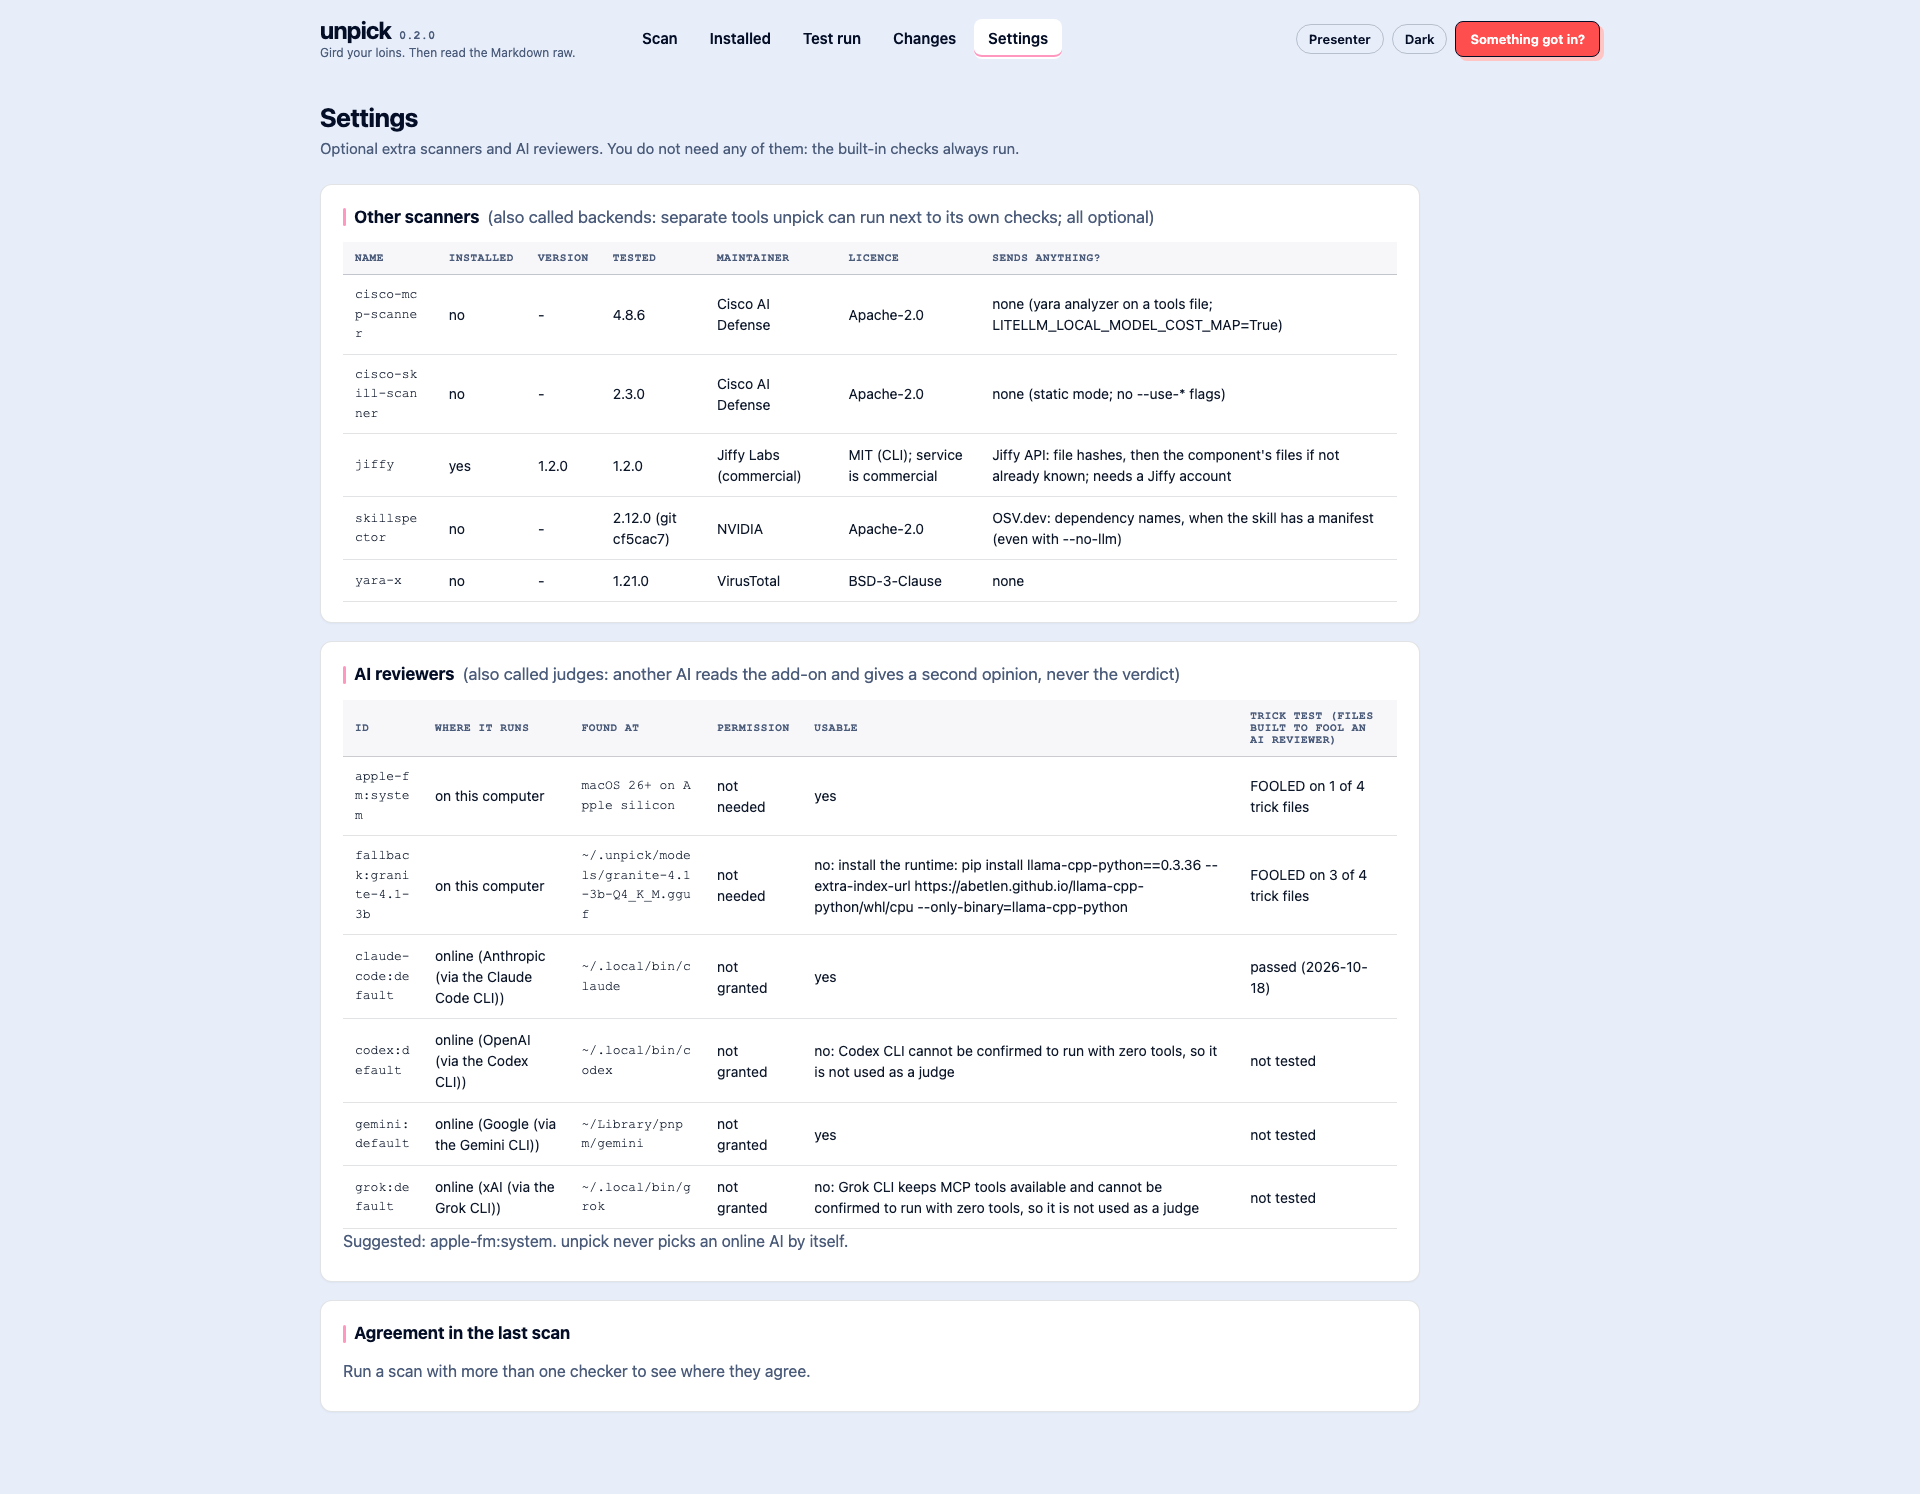
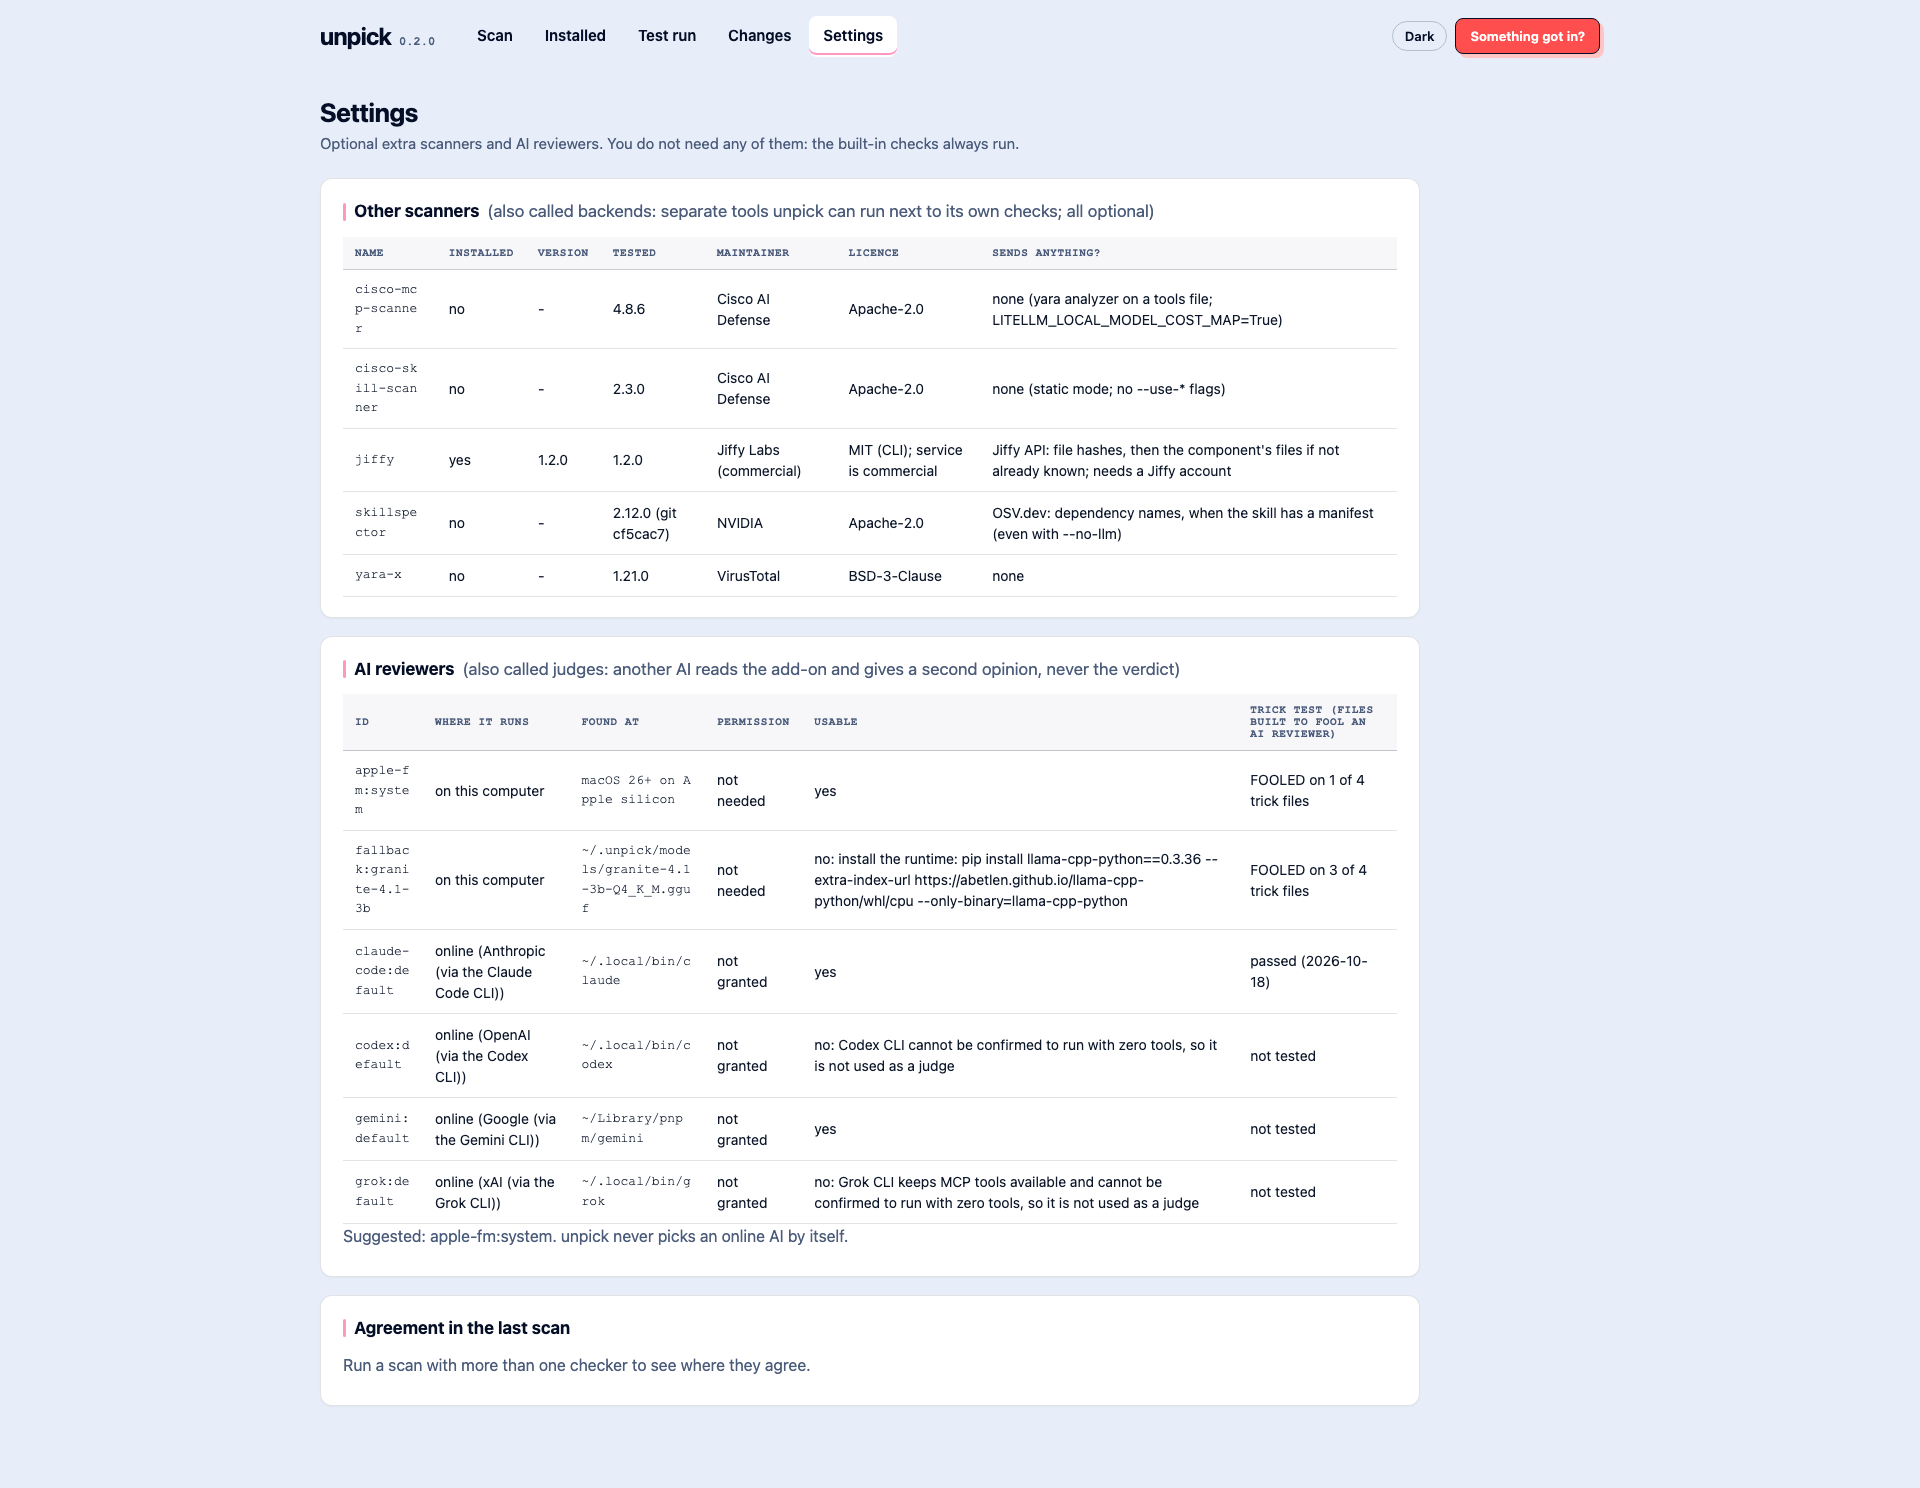
feat(ui): remove the tagline and presenter mode
The header shows only the name, version, navigation, theme and
"Something got in?". Removes the tagline from the page, the server and the
README, and presenter mode from the HTML, CSS and JS. DECISIONS 51
supersedes 40. tests/slides.py now sets scanners under Advanced on the
start page.

diff --git a/unpick/ui/static/app.css b/unpick/ui/static/app.css
@@ -27,7 +27,6 @@ code, .mono, pre { font-family: var(--font-mono); }
 .brand { display: flex; flex-wrap: wrap; column-gap: 8px; align-items: baseline; max-width: 280px; text-decoration: none; color: var(--fg-strong); }
 .wordmark { font: 700 24px var(--font-body); letter-spacing: -0.03em; }
 .version { font: 600 12px var(--font-mono); color: var(--fg-muted); }
-.tagline { flex-basis: 100%; font-size: 12px; color: var(--fg-muted); }
 nav { display: flex; gap: 4px; flex: 1; flex-wrap: wrap; }
 nav a { color: var(--fg-strong); text-decoration: none; padding: 8px 14px; border-radius: var(--radius-md); font-weight: 600; font-size: 15px; border-bottom: 2px solid transparent; }
 nav a:hover { background: var(--bg-elevated); }
@@ -280,23 +279,12 @@ dialog { border: 1px solid var(--navy-900); border-radius: var(--radius-lg); pad
 dialog p { white-space: pre-line; }
 dialog::backdrop { background: rgba(4, 14, 39, 0.6); }
 
-/* ---- presenter: real sizes for a projector ---- */
-body.present main { font-size: 20px; }
-body.present h1 { font-size: 40px; } body.present .hero-title { font-size: 72px; } body.present .result-title { font-size: 44px; }
-body.present .path-help, body.present .entry-foot, body.present .verdict-action, body.present .source { font-size: 17px; }
-body.present .verdict-head { font-size: 28px; } body.present .verdict-word { font-size: 40px; }
-body.present .finding .msg { font-size: 22px; } body.present .finding .why, body.present .subcopy, body.present .summary { font-size: 20px; }
-body.present .split-body, body.present .finding pre, body.present .runstrip, body.present .timeline { font-size: 18px; }
-body.present .hidden-text { font-size: 20px; } body.present .j-btn { font-size: 18px; }
-body.present label, body.present .side-note, body.present .meta, body.present .link-btn, body.present .meta-line, body.present .try { font-size: 17px; }
-
 @media (max-width: 1200px) {
   .scan-bar { grid-template-columns: 1fr; }
   .result-grid { grid-template-columns: 1fr; }
   .result-aside { position: static; }
   .two-col { grid-template-columns: 1fr; }
   .topbar, main { padding-left: 20px; padding-right: 20px; }
-  .tagline { display: none; }
 }
 @media (max-width: 760px) {
   .finding > summary { grid-template-columns: 1fr; } .finding .body { padding-left: 6px; }

diff --git a/unpick/ui/static/app.js b/unpick/ui/static/app.js
@@ -98,7 +98,7 @@ function confirmDialog({ title, text, yes, danger = true }) {
   });
 }
 
-// ---- navigation, theme, presenter mode -------------------------------------------------------------
+// ---- navigation and theme -------------------------------------------------------------------------
 const screens = ["start", "inventory", "check", "scan", "rehearse", "verify", "recover", "backends"];
 function show() {
   const wanted = location.hash.slice(1);
@@ -123,14 +123,6 @@ function setTheme(t) {
 }
 $("theme").addEventListener("click", () => setTheme(document.documentElement.dataset.theme === "dark" ? "light" : "dark"));
 setTheme(localStorage.getItem("unpick-theme") || "light");
-
-function setPresent(on) {
-  document.body.classList.toggle("present", on);
-  $("present").setAttribute("aria-pressed", on ? "true" : "false");
-  localStorage.setItem("unpick-present", on ? "1" : "");
-}
-$("present").addEventListener("click", () => setPresent(!document.body.classList.contains("present")));
-setPresent(localStorage.getItem("unpick-present") === "1" || new URLSearchParams(location.search).has("present"));
 
 // Downloads go through fetch so the token header is sent; the browser then saves the file.
 document.addEventListener("click", async (e) => {

diff --git a/unpick/ui/static/index.html b/unpick/ui/static/index.html
@@ -11,8 +11,7 @@
 <body>
   <a class="skip" href="#main">Skip to content</a>
   <header class="topbar">
-    <a class="brand" href="#start" aria-label="unpick home"><span class="wordmark">unpick</span><span class="version">{{VERSION}}</span>
-      <span class="tagline">{{TAGLINE}}</span></a>
+    <a class="brand" href="#start" aria-label="unpick home"><span class="wordmark">unpick</span><span class="version">{{VERSION}}</span></a>
     <nav aria-label="Main">
       <a href="#start" data-screen="start scan check">Scan</a>
       <a href="#inventory" data-screen="inventory">Installed</a>
@@ -21,7 +20,6 @@
       <a href="#backends" data-screen="backends">Settings</a>
     </nav>
     <div class="topbar-right">
-      <button class="toggle" id="present" type="button" aria-pressed="false">Presenter</button>
       <button class="toggle" id="theme" type="button" aria-label="Switch light or dark theme">Dark</button>
       <a href="#recover" data-screen="recover" class="j-btn danger small">Something got in?</a>
     </div>

diff --git a/tests/slides.py b/tests/slides.py
@@ -63,18 +63,17 @@ def main() -> None:
         page = browser.new_page(viewport={"width": 1920, "height": 1080}, device_scale_factor=2)
 
         def scan(path: str, with_backends: bool):
-            page.goto(url + "#scan")
+            page.goto(url)
             page.reload()
-            page.fill("#scan-path", path)
             if with_backends:
-                page.locator("details.options").evaluate("d => d.open = true")
+                page.click("#start-advanced summary")
                 if not page.is_disabled("#scan-backends"):
                     page.check("#scan-backends")
-            page.click("#scan-form button[type=submit]")
+            page.fill("#start-path", path)
+            page.click("#start-go")
             page.wait_for_selector(".finding", timeout=600_000)
 
         scan("sample-a", True)
-        page.locator("details.options").evaluate("d => d.open = false")
         page.screenshot(path=str(SHOTS / "slide-17.png"))  # verdict plus "Scan details": every source that ran, nothing sent
         page.locator("#L24").scroll_into_view_if_needed()
         page.screenshot(path=str(SHOTS / "slide-18.png"))

diff --git a/unpick/ui/server.py b/unpick/ui/server.py
@@ -21,7 +21,7 @@ from pathlib import Path
 
 from flask import Flask, Response, abort, current_app, jsonify, request, send_from_directory
 
-from unpick import TAGLINE, __version__, backends, consent, decisions, inventory, judges, render, report, scan
+from unpick import __version__, backends, consent, decisions, inventory, judges, render, report, scan
 from unpick.ui import plain
 
 STATIC = Path(__file__).resolve().parent / "static"
@@ -60,7 +60,7 @@ def security_headers(resp: Response):
 
 def index():
     page = (STATIC / "index.html").read_text(encoding="utf-8")
-    page = page.replace("{{TOKEN}}", _ctx()["token"]).replace("{{VERSION}}", __version__).replace("{{TAGLINE}}", TAGLINE)
+    page = page.replace("{{TOKEN}}", _ctx()["token"]).replace("{{VERSION}}", __version__)
     return Response(page, mimetype="text/html")
 
 
@@ -69,7 +69,7 @@ def static_file(name):
 
 
 def api_meta():
-    return jsonify({"version": __version__, "project": str(_ctx()["project"]), "tagline": TAGLINE})
+    return jsonify({"version": __version__, "project": str(_ctx()["project"])})
 
 
 def api_inventory():

diff --git a/DECISIONS.md b/DECISIONS.md
@@ -213,6 +213,17 @@ change it. Open ones are marked **OPEN**. Answer by editing this file or telling
     saves "a copy to compare later". Both say they are not a safety verdict. Re-locking keeps the download
     records, and a lockfile holding only those counts as a first run.
 
+## Plain-language UI (2026-10-21)
+
+51. **The UI has no tagline and no presenter mode.** The header shows only the name, version, navigation,
+    theme and "Something got in?". The tagline read as noise to a first-time user, and presenter mode was a
+    talk aid that put an unexplained button in everyone's header. Supersedes 40.
+
+52. **Results lead with a verdict and its reason in plain words.** Three verdicts (STOP, CHECK FIRST,
+    NOTHING FOUND); the reason is the top open warning's plain sentence from `unpick/ui/plain.py`. Severity,
+    rule id and the checker's own wording sit in each card's technical details. A path with no readable
+    files shows NOT CHECKED, never NOTHING FOUND.
+
 ## Phase 2 (looking ahead)
 
 17. **UI fonts.** Resolved: system sans and a Courier New mono stack, as specified. The Jiffy platform's

diff --git a/README.md b/README.md
@@ -1,7 +1,5 @@
 # unpick
 
-*Gird your loins. Then read the Markdown raw.*
-
 unpick vets AI components on your own laptop before you trust them: agent skills
 (SKILL.md folders), IDE rules files, MCP servers and their tool descriptions, and Claude Code plugins
 and hooks. It is for people with no security team, no budget and no vendor accounts. It runs offline by
